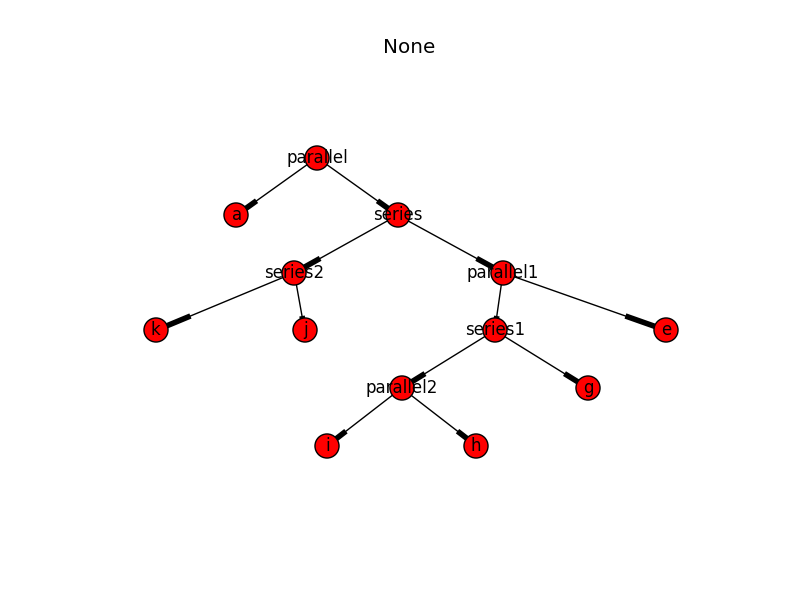
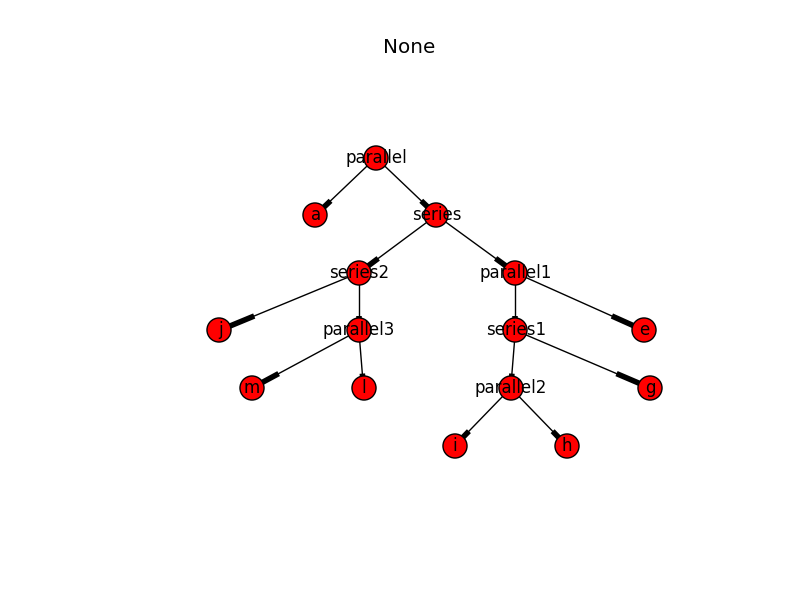
solve operations_stack redundant problem, still have bug in temp_stack

diff --git a/BinaryConstructionTree.py b/BinaryConstructionTree.py
@@ -254,107 +254,164 @@ class BinaryConstructionTree(object):
         A list of nodes. i.e ['p1', 'a', 'b']
 
         """
-        try:
-            # Regard sp_order_list as a stack.
-            sp_order_stack = list(nx.dfs_postorder_nodes(self.tree, node))
-            sp_order_stack.reverse()
+        # try:
+        # Regard sp_order_list as a stack.
+        sp_order_stack = list(nx.dfs_postorder_nodes(self.tree, node))
+        sp_order_stack.reverse()
 
-            # New a stack to store the lower operation priority element.
-            temp_stack = []
+        # New a stack to store the lower operation priority element.
+        temp_stack = []
 
-            # New a list to store the series-parallel partial order formula
-            sp_order_list = []
+        # New a list to store the series-parallel partial order formula
+        sp_order_list = []
 
-            # New a stack to store the completed operations
-            operations_stack = []
+        # New a stack to store the completed operations
+        operations_stack = []
 
-            while len(sp_order_stack) >= 2:
-                # ecah round we check whether the root of the first element is match the third element.
-                if len(sp_order_stack) >= 3:
-                    the_first_element = sp_order_stack.pop()
+        while len(sp_order_stack) >= 2:
+            # ecah round we check whether the root of the first element is match the third element.
+            if len(sp_order_stack) >= 3:
+                the_first_element = sp_order_stack.pop()
+            else:
+                the_first_element = temp_stack.pop()
+            the_second_element = sp_order_stack.pop()
+            the_third_element = sp_order_stack.pop()
+
+            print "Current: {} {} {} {}".format(the_first_element, the_second_element, the_third_element,
+                                                sp_order_stack)
+            # if match then move the first two elements to sp_order_list
+            if self.tree.predecessors(the_first_element)[0] == the_third_element:
+
+                if not sp_order_list or self.tree.predecessors(sp_order_list[-1])[0] != the_first_element:
+                    sp_order_list.append(the_second_element)
+                    # if self.tree.out_degree(the_first_element) > 0 and len(sp_order_stack) == 0:
+                    #     the_temp_operation_final_element = [[i, j, k] for i, j, k in operations_stack if
+                    #                                         k == the_first_element]
+                    #     i, j = the_temp_operation_final_element[0][0], the_temp_operation_final_element[0][1]
+                    #
+                    #     sp_order_list.append(i)
+                    #     sp_order_list.append(j)
+                    sp_order_list.append(the_first_element)
+
                 else:
-                    the_first_element = temp_stack.pop()
-                the_second_element = sp_order_stack.pop()
-                the_third_element = sp_order_stack.pop()
+                    if self.tree.out_degree(the_first_element) > 0 and len(sp_order_stack) == 0:
+                        the_temp_operation_final_element = [[i, j, k] for i, j, k in operations_stack if
+                                                            k == the_first_element]
+                        i, j = the_temp_operation_final_element[0][0], the_temp_operation_final_element[0][1]
 
-                if self.tree.predecessors(the_first_element)[0] == the_third_element:
-                    # if match then move these three element to sp_order_list
+                        sp_order_list.append(i)
+                        sp_order_list.append(j)
 
-                    if not sp_order_list or self.tree.predecessors(sp_order_list[-1])[0] != the_first_element:
-                        sp_order_list.append(the_second_element)
-                        sp_order_list.append(the_first_element)
-                    else:
-                        sp_order_list.append(the_first_element)
-                        sp_order_list.append(the_second_element)
+                    sp_order_list.append(the_first_element)
+                    sp_order_list.append(the_second_element)
+                sp_order_stack.append(the_third_element)
+
+            else:
+                if self.tree.out_degree(the_first_element) > 0 and self.tree.successors(the_first_element)[
+                    0] in sp_order_list and self.tree.successors(the_first_element)[1] in sp_order_list:
+                    # if the_first_element is the sub-tree that was already searched than
+                    # push to operations_stack and put the operator as a stamp to Temp_stack.
+
+                    # else:
+                    the_first_operation_element = sp_order_list.pop()
+                    the_second_operation_element = sp_order_list.pop()
+                    operations_stack.append(
+                        [the_second_operation_element, the_first_operation_element, the_first_element])
+                    temp_stack.append(the_first_element)
+
+                    stamps_in_operations_stack = [k for i, j, k in operations_stack]
+                    if stamps_in_operations_stack and the_first_element in stamps_in_operations_stack:
+
+                        # if stamps_in_operations_stack is not null then temp_stack can not be null
+                        the_recover_element = temp_stack.pop()
+
+                        # in case of duplicate of the_first_element.
+                        if temp_stack and the_recover_element == the_first_element:
+                            the_recover_element = temp_stack.pop()
+
+                    # Recover the sp_order_stack to process next search.
                     sp_order_stack.append(the_third_element)
+                    sp_order_stack.append(the_second_element)
+                    if the_recover_element:
+                        sp_order_stack.append(the_first_element)
+                        sp_order_stack.append(the_recover_element)
+                    sp_order_stack.append(the_first_element)
 
                 else:
-                    if self.tree.out_degree(the_first_element) > 0 and self.tree.successors(the_first_element)[
-                        0] in sp_order_list and self.tree.successors(the_first_element)[1] in sp_order_list:
-                        the_first_operation_element = sp_order_list.pop()
-                        the_second_operation_element = sp_order_list.pop()
-                        operations_stack.append(
-                            [the_second_operation_element, the_first_operation_element, the_first_element])
+                    if len(temp_stack) <= 0:
+                        # if temp_stack is null then store the first element to temp_stack
+                        # and put the other two back to sp_order_stack.
+
                         temp_stack.append(the_first_element)
                     else:
-                        if len(temp_stack) <= 0:
-                            # if temp_stack is null then store the first element to temp_stack
-                            # and put the other two back to sp_order_stack.
-                            temp_stack.append(the_first_element)
-                        else:
-                            # get a element from temp_stack to check if match
-                            the_temp_element = temp_stack.pop()
-                            the_temp_operation_element = [[i, j, k] for i, j, k in operations_stack if
-                                                          k == the_temp_element]
+                        # get a element from temp_stack to check if match
+                        # No need to check if sp_order_list is null as at the final round,
+                        # they must share the same parent(root).
 
-                            # To check the checked node is already a tree that was search.
-                            if self.tree.predecessors(the_temp_element)[
-                                0] == the_second_element and the_temp_operation_element:
+                        the_temp_element = temp_stack.pop()
+                        the_temp_operation_element = [[i, j, k] for i, j, k in operations_stack if
+                                                      k == the_temp_element]
+
+                        # To check the checked node is already a tree that was search.
+                        if self.tree.predecessors(the_temp_element)[
+                            0] == the_second_element and the_temp_operation_element:
 
 
-                                # To check if the node shared the same parent is a tree
-                                # if so, then add its children before it.
-                                # otherwise add itself after the output list.
-                                the_temp_operation_second_element = [[i, j, k] for i, j, k in operations_stack if
-                                                                     k == the_first_element]
-                                if the_temp_operation_second_element:
-                                    i, j = the_temp_operation_second_element[0][0], \
-                                           the_temp_operation_second_element[0][1]
-                                    sp_order_list.append(i)
-                                    sp_order_list.append(j)
+                            # To check if the node shared the same parent is a tree
+                            # if so, then add its children before it.
+                            # otherwise add itself after the output list.
+                            the_temp_operation_second_element = [[i, j, k] for i, j, k in operations_stack if
+                                                                 k == the_first_element]
 
-                                sp_order_list.append(the_first_element)
-
-                                i, j, k = the_temp_operation_element[0][0], the_temp_operation_element[0][1], \
-                                          the_temp_operation_element[0][2]
-
+                            if the_temp_operation_second_element:
+                                i, j = the_temp_operation_second_element[0][0], \
+                                       the_temp_operation_second_element[0][1]
                                 sp_order_list.append(i)
                                 sp_order_list.append(j)
-                                sp_order_list.append(k)
+                                operations_stack.remove(the_temp_operation_second_element[0])
+                            sp_order_list.append(the_first_element)
 
-                            # if the checked node match its parent
-                            elif self.tree.predecessors(the_temp_element)[0] == the_second_element:
-                                sp_order_list.append(the_first_element)
-                                sp_order_list.append(the_temp_element)
+                            i, j, k = the_temp_operation_element[0][0], the_temp_operation_element[0][1], \
+                                      the_temp_operation_element[0][2]
 
-                            # otherwise, put the_temp_element and the_first_element to temp_stack,
-                            # as they all are not matched the parent searched so far
-                            else:
-                                temp_stack.append(the_temp_element)
-                                temp_stack.append(the_first_element)
+                            sp_order_list.append(i)
+                            sp_order_list.append(j)
+                            sp_order_list.append(k)
+                            operations_stack.remove(the_temp_operation_element[0])
+
+                        # if the checked node match its parent
+                        elif self.tree.predecessors(the_temp_element)[0] == the_second_element:
+                            sp_order_list.append(the_first_element)
+                            sp_order_list.append(the_temp_element)
+
+                        # otherwise, put the_temp_element and the_first_element to temp_stack,
+                        # as they all are not matched the parent searched so far
+                        else:
+                            temp_stack.append(the_temp_element)
+                            temp_stack.append(the_first_element)
 
                     # Recover the sp_order_stack to process next search.
                     sp_order_stack.append(the_third_element)
                     sp_order_stack.append(the_second_element)
 
-            sp_root = sp_order_stack.pop()
-            sp_order_list.append(sp_root)
 
-            return sp_order_list
+            print "Temp_stack: {}".format(temp_stack)
+            print "operations_stack: {}".format(operations_stack)
+            print "Output: {}".format(sp_order_list)
+            print
+        sp_root = sp_order_stack.pop()
+        sp_order_list.append(sp_root)
+
+        while operations_stack:
+            i, j, k = operations_stack.pop()
+            sp_order_list.insert(sp_order_list.index(k), i)
+            sp_order_list.insert(sp_order_list.index(k), j)
+
+        return sp_order_list
 
 
-        except Exception:
-            raise TypeError("There is no {} in the binary construction tree".format(node))
+        # except Exception:
+        # raise TypeError("There is no {} in the binary construction tree".format(node))
 
 
     def get_nodes_from_position(self, position=None):
@@ -480,7 +537,7 @@ def number_of_extensions(M):
     sp_order_formula.reverse()
 
     temp_stack = []
-    # print sp_order_formula
+    print sp_order_formula
 
     while len(sp_order_formula) >= 3:
 
@@ -494,6 +551,8 @@ def number_of_extensions(M):
             M.tree.node[right]['num_extension'] = 1
 
         operator = sp_order_formula.pop()
+        print operator
+        print M.series_partial_order_representation(operator)
 
         # When series structure
         if operator.__contains__('series') or operator.__contains__('parallel'):
@@ -502,8 +561,6 @@ def number_of_extensions(M):
                 if operator.__contains__('series'):
                     num_extension = (M.tree.node[left]['num_extension']) * (M.tree.node[right]['num_extension'])
                     M.tree.node[operator]['num_extension'] = num_extension
-
-                    sp_order_formula.append(operator)
 
                 if operator.__contains__('parallel'):
                     # n1, n2 is the number of events (labels) on a partial order, we need to store the previous result.
@@ -514,7 +571,9 @@ def number_of_extensions(M):
                         M.tree.node[left]['num_extension']) * (M.tree.node[right]['num_extension'])
 
                     M.tree.node[operator]['num_extension'] = num_extension
-                    sp_order_formula.append(operator)
+
+                print "{}:{}".format(operator, num_extension)
+                sp_order_formula.append(operator)
             except Exception:
                 raise Exception
 
@@ -628,7 +687,9 @@ G1.tree.add_node("g", position="right", num_extension=0)
 G1.tree.add_node("h", position="left", num_extension=0)
 G1.tree.add_node("i", position="right", num_extension=0)
 G1.tree.add_node("j", position="left", num_extension=0)
-G1.tree.add_node("k", position="right", num_extension=0)
+G1.tree.add_node("parallel3", position="right", num_extension=0)
+G1.tree.add_node("l", position="left", num_extension=0)
+G1.tree.add_node("m", position="right", num_extension=0)
 
 G1.tree.add_edge("parallel", "a")
 G1.tree.add_edge("parallel", "series")
@@ -641,8 +702,13 @@ G1.tree.add_edge("parallel1", "e")
 G1.tree.add_edge("parallel2", "h")
 G1.tree.add_edge("parallel2", "i")
 G1.tree.add_edge("series2", "j")
-G1.tree.add_edge("series2", "k")
+G1.tree.add_edge("series2", "parallel3")
+G1.tree.add_edge("parallel3", "l")
+G1.tree.add_edge("parallel3", "m")
 
-# print G1.series_partial_order_representation('parallel')
-print number_of_extensions(G1)
+print G1.series_partial_order_representation('parallel')
+# print list(nx.dfs_postorder_nodes(G1.tree, 'series'))
+# print
+# print G1.series_partial_order_representation('series')
+# print number_of_extensions(G1)
 # G1.plot_out()

diff --git a/test.py b/test.py
@@ -3,6 +3,7 @@ __author__ = 'GaryGoh'
 # import networkx as nx
 # from networkx.algorithms import bipartite
 # import matplotlib.pyplot as plt
+import math
 #
 #
 # B = nx.Graph()
@@ -10,7 +11,7 @@ __author__ = 'GaryGoh'
 # B.add_nodes_from(['a','b','c'], bipartite=1)
 # B.add_edges_from([(1,'a'), (1,'b'), (2,'b'), (2,'c'), (3,'c'), (4,'a')])
 # for i in B:
-#     print i
+# print i
 #
 #
 # # # same layout using matplotlib with no labels
@@ -22,10 +23,14 @@ __author__ = 'GaryGoh'
 # # plt.savefig('nx_test.png')
 # plt.show()
 
-a = [1,2,3,4,5]
-b = [3,4,5,6,7]
-c = [[1,2,3], [2,3,4]]
-d = [[i,j,k] for i, j , k in c if k ==3]
+a = []
+b = [3, 4, 5, 6, 7]
+c = [[1, 2, 3], [2, 3, 4]]
+d = [[i, j, k] for i, j, k in c if k == 3]
+f = 12
+
+i, j, k = c[0]
+print i, j,k
 #
 # if d:
 #     print 'yes'
@@ -35,13 +40,20 @@ d = [[i,j,k] for i, j , k in c if k ==3]
 # s = ['a1', 'a2', 'a3', 'b']
 # print [n for n in s if n.__contains__('a')]
 
-a.insert(a.index(3), 6)
-a.insert(a.index(3), 7)
+# a.insert(a.index(3), 6)
+# a.insert(a.index(3), 7)
 
 e = [1]
 
-if len(e) > 0 and e.pop():
-    print "yes"
+# a.append(f)
+# a.append(f)
+if a:
+    print "yew"
+else:
+    print 'no'
+
+# if len(e) > 0 and e.pop():
+#     print "yes"
 
 # c.remove(5)
 # print c
@@ -58,3 +70,7 @@ if len(e) > 0 and e.pop():
 
 # l = s + str(n)
 # print l
+
+# a = math.factorial(10)/(math.factorial(7) * math.factorial(3)) * 12
+#
+# print a * 12
